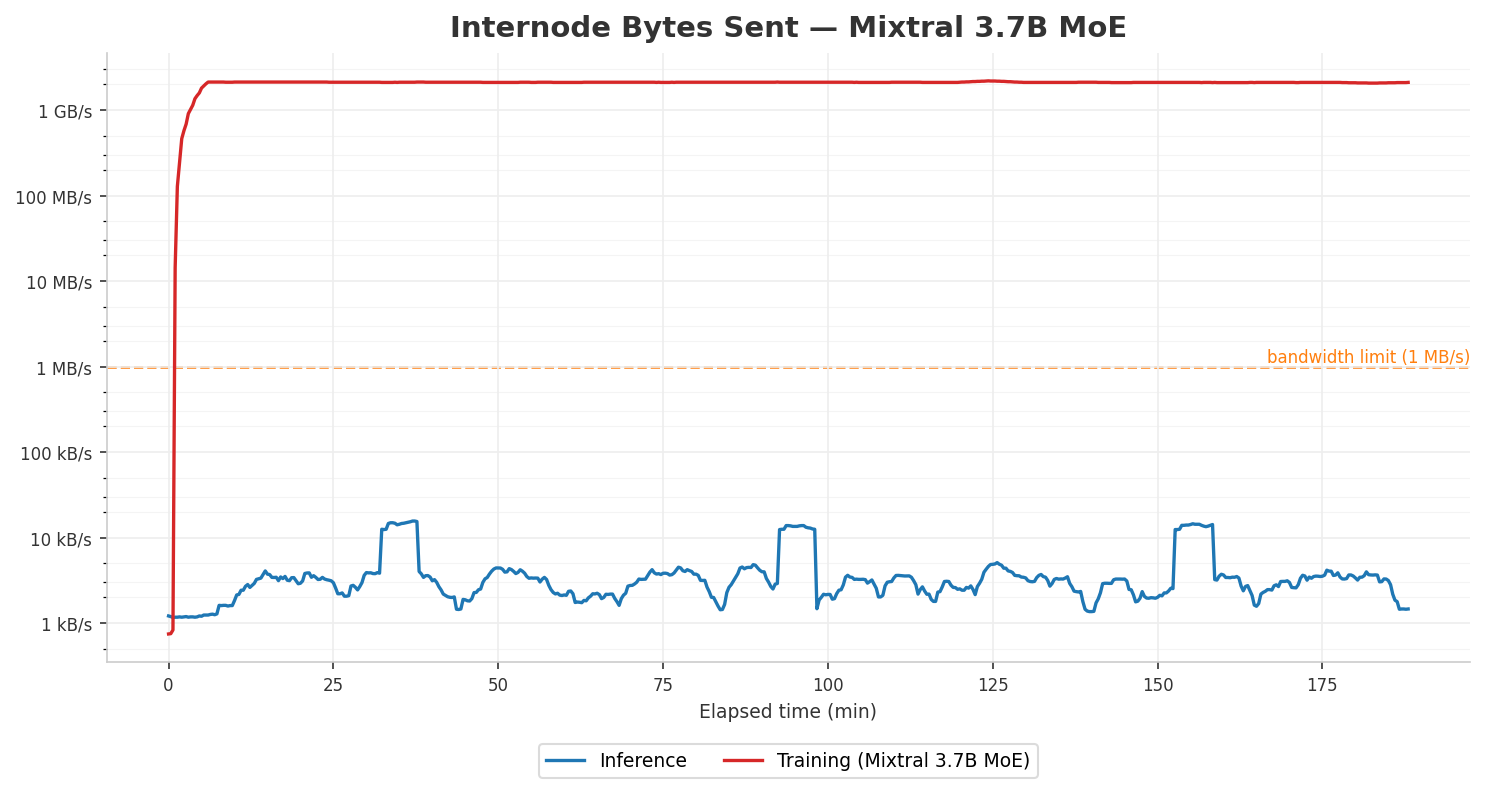
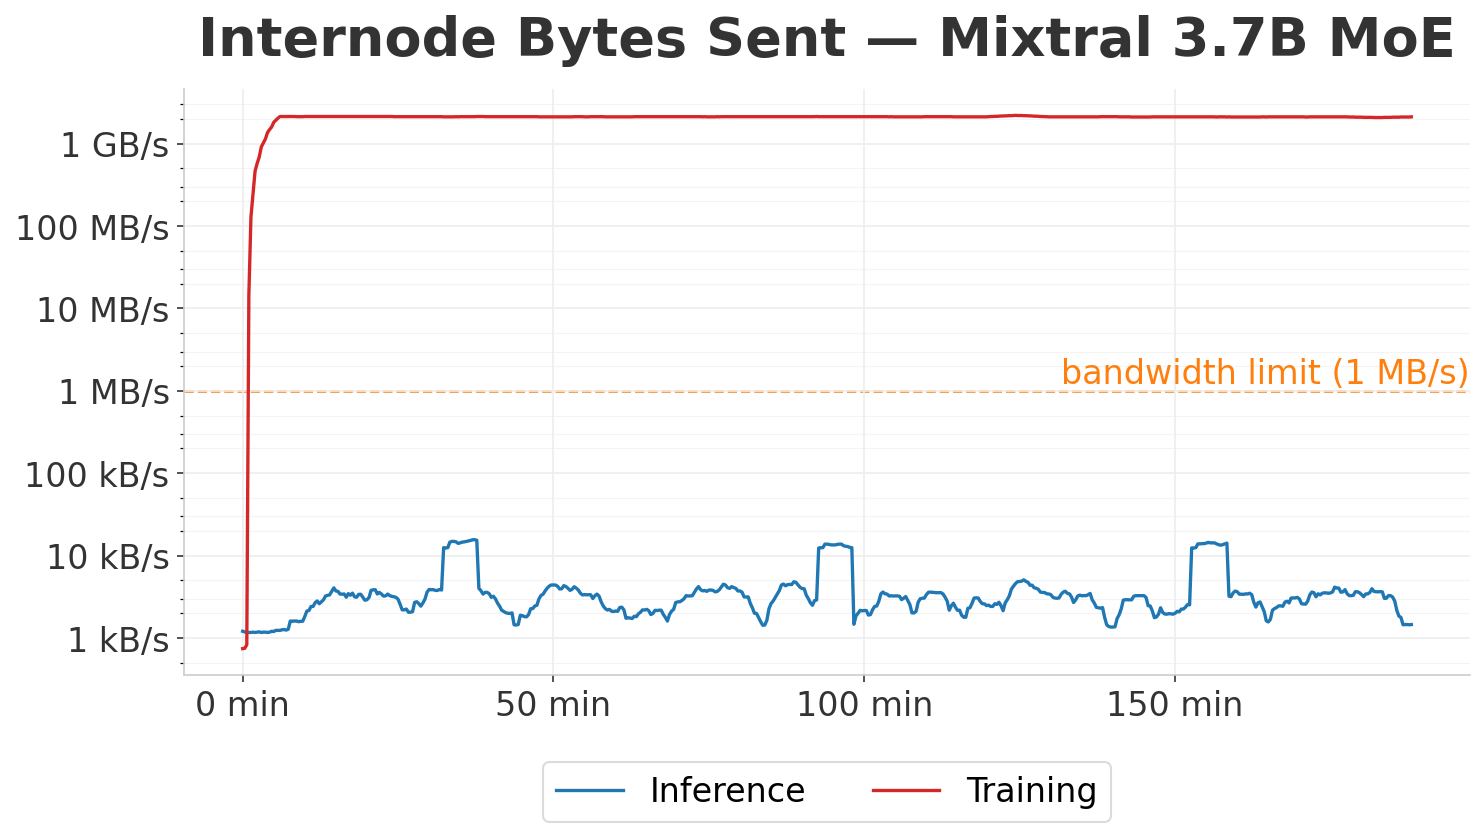
Poster-ready internode bytes plots: larger text, fewer ticks, simpler legend
- Increase font sizes for poster readability (title 26, ticks 16, legend 16)
- Remove x-axis label, add "min" suffix to tick labels instead
- Reduce x-axis tick frequency with MaxNLocator(nbins=5)
- Simplify legend labels to just "Inference" / "Training"

diff --git a/scripts/analysis/plot_dashboard.py b/scripts/analysis/plot_dashboard.py
@@ -441,21 +441,22 @@ def plot_internode_bytes(
             thresh_str = f"{_fmt_num(thresh)} B/s"
         ax.axhline(thresh, color=THRESH_COLOR, linewidth=1.2, linestyle="--", zorder=0)
         ax.text(1.0, thresh, f"bandwidth limit ({thresh_str})",
-                color=THRESH_COLOR, fontsize=8, va="bottom", ha="right",
+                color=THRESH_COLOR, fontsize=16, va="bottom", ha="right",
                 transform=ax.get_yaxis_transform())
 
     apply_log_scale(ax)
-    ax.set_title(title, fontsize=14, fontweight="bold", color="#333333", pad=8)
-    ax.set_xlabel("Elapsed time (min)", fontsize=9, color="#333333")
-    ax.tick_params(axis="x", labelsize=8, colors="#333333")
-    ax.tick_params(axis="y", labelsize=8, colors="#333333")
+    ax.set_title(title, fontsize=26, fontweight="bold", color="#333333", pad=16)
+    ax.tick_params(axis="x", labelsize=16, colors="#333333")
+    ax.xaxis.set_major_locator(ticker.MaxNLocator(nbins=5, integer=True))
+    ax.xaxis.set_major_formatter(ticker.FuncFormatter(lambda v, _: f"{int(v)} min"))
+    ax.tick_params(axis="y", labelsize=16, colors="#333333")
     ax.yaxis.set_major_formatter(ticker.FuncFormatter(adaptive_bytes_formatter))
     ax.spines[["top", "right"]].set_visible(False)
     ax.spines[["left", "bottom"]].set_color("#cccccc")
     ax.grid(True, color="#eeeeee", linewidth=0.8)
 
     fig.tight_layout()
-    ax.legend(fontsize=9, framealpha=0.7, edgecolor="#cccccc",
+    ax.legend(fontsize=16, framealpha=0.7, edgecolor="#cccccc",
               loc="upper center", bbox_to_anchor=(0.5, -0.12), ncol=3)
     fig.savefig(output_path, dpi=150, bbox_inches="tight", facecolor="white")
     plt.close(fig)
